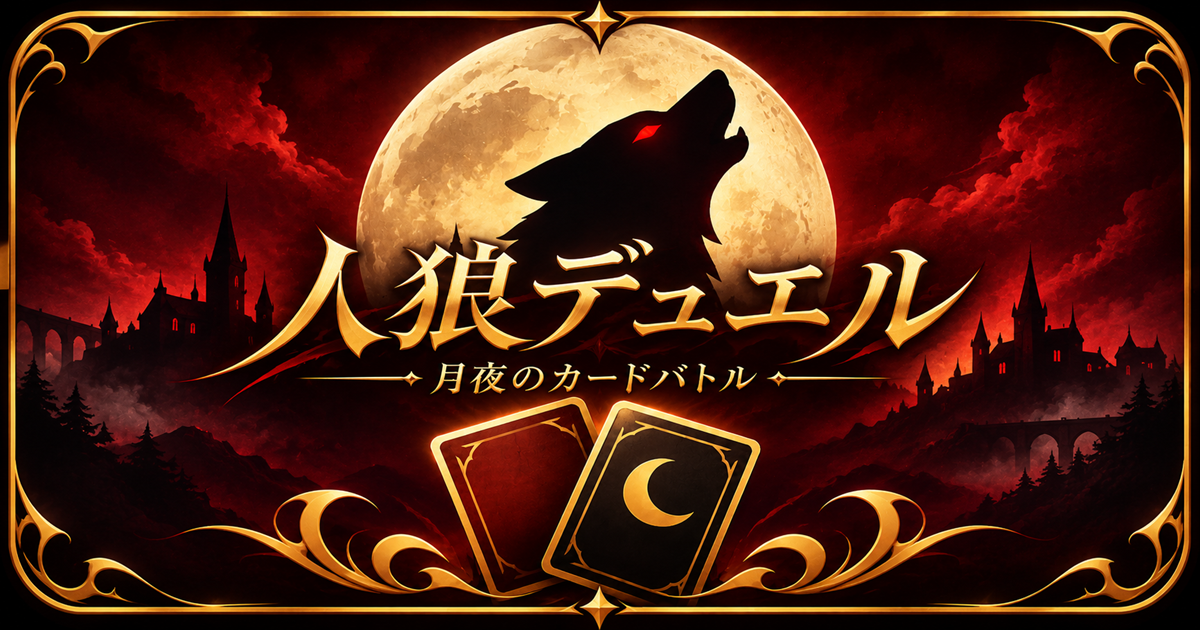
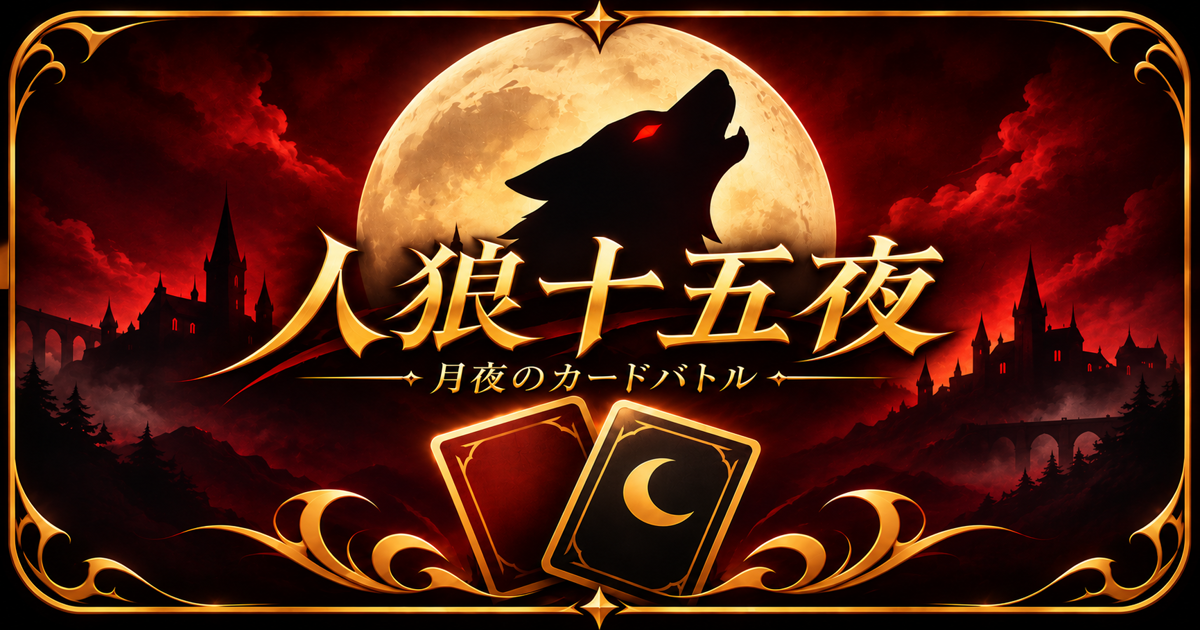
Rename web game to Jinro Jugoya and update sharing artwork

diff --git a/index.html b/index.html
@@ -5,26 +5,26 @@
   <meta name="viewport" content="width=device-width,initial-scale=1">
   <meta name="theme-color" content="#100f16">
   <meta name="description" content="20種類の役職でデッキを構築し、相手の行動を読み合う1対1のカードバトル。NPC対戦・オンライン対戦に対応！">
-  <title>人狼デュエル ― 十五夜の心理戦 ―</title>
+  <title>人狼十五夜</title>
   <!-- When the public domain changes, update canonical, og:url, og:image and twitter:image together. -->
   <link rel="canonical" href="https://jinrocard.vercel.app/">
   <meta property="og:type" content="website">
   <meta property="og:locale" content="ja_JP">
-  <meta property="og:site_name" content="人狼デュエル ― 十五夜の心理戦 ―">
+  <meta property="og:site_name" content="人狼十五夜">
   <meta property="og:url" content="https://jinrocard.vercel.app/">
-  <meta property="og:title" content="人狼デュエル ― 十五夜の心理戦 ―">
+  <meta property="og:title" content="人狼十五夜">
   <meta property="og:description" content="20種類の役職でデッキを構築し、相手の行動を読み合う1対1のカードバトル。NPC対戦・オンライン対戦に対応！">
-  <meta property="og:image" content="https://jinrocard.vercel.app/ogp.png">
+  <meta property="og:image" content="https://jinrocard.vercel.app/ogp.png?v=jugoya-1">
   <meta property="og:image:type" content="image/png">
   <meta property="og:image:width" content="1200">
   <meta property="og:image:height" content="630">
-  <meta property="og:image:alt" content="満月に吠える狼と2枚のカードを描いた「人狼デュエル」のタイトル画像">
+  <meta property="og:image:alt" content="満月に吠える狼と2枚のカードを描いた「人狼十五夜」のタイトル画像">
   <meta name="twitter:card" content="summary_large_image">
-  <meta name="twitter:title" content="人狼デュエル ― 十五夜の心理戦 ―">
+  <meta name="twitter:title" content="人狼十五夜">
   <meta name="twitter:description" content="20種類の役職でデッキを構築し、相手の行動を読み合う1対1のカードバトル。NPC対戦・オンライン対戦に対応！">
-  <meta name="twitter:image" content="https://jinrocard.vercel.app/ogp.png">
-  <meta name="twitter:image:alt" content="満月に吠える狼と2枚のカードを描いた「人狼デュエル」のタイトル画像">
-  <meta name="apple-mobile-web-app-title" content="人狼デュエル">
+  <meta name="twitter:image" content="https://jinrocard.vercel.app/ogp.png?v=jugoya-1">
+  <meta name="twitter:image:alt" content="満月に吠える狼と2枚のカードを描いた「人狼十五夜」のタイトル画像">
+  <meta name="apple-mobile-web-app-title" content="人狼十五夜">
   <link rel="icon" href="/favicon.ico?v=wolf-1" sizes="16x16 32x32 48x48">
   <link rel="icon" type="image/png" href="/favicon-16.png?v=wolf-1" sizes="16x16">
   <link rel="icon" type="image/png" href="/favicon-32.png?v=wolf-1" sizes="32x32">

diff --git a/src/main.tsx b/src/main.tsx
@@ -333,7 +333,7 @@ function App() {
   const missing = RULES.deckSize - deck.length
   const libraryPreview = saved.find(entry => entry.id === libraryId)
   return <OpenSoundSettings.Provider value={() => setSoundSettings(true)}>
-    <header className="top"><div className="wrap top-inner"><span className="brand"><span className="brand-main"><span className="sigil">◈</span> 人狼デュエル</span>{' '}<span className="brand-subtitle">― 十五夜の心理戦 ―</span></span>
+    <header className="top"><div className="wrap top-inner"><span className="brand"><span className="brand-main"><span className="sigil">◈</span> 人狼十五夜</span></span>
       <div className="top-actions">
         {page === 'builder' && <button className="quiet" onClick={home}>ホームへ戻る</button>}
         <SoundSettingsButton />
@@ -350,8 +350,7 @@ function App() {
             <div className="moon" aria-hidden="true"/>
             <div className="hero-copy">
               <div className="eyebrow">✦　月夜の決闘</div>
-              <h1>人狼デュエル</h1>
-              <p className="hero-subtitle">― 十五夜の心理戦 ―</p>
+              <h1>人狼十五夜</h1>
               <p className="hero-credit" lang="en">{creatorCredit}</p>
               <p><strong>相手のHPを0にすれば勝利。</strong><br/>役職を選び、相手の手を読む。<br/>十五夜のうちに、決着をつけろ。</p>
               <div className="home-actions">
@@ -394,7 +393,7 @@ function App() {
                 <div><CardTile role="seer" onInspect={() => inspect('seer')} /><p>相手の手札を調べる。</p></div>
               </div>
               <h3>ゲーム情報</h3>
-              <p>ゲーム名：人狼デュエル ― 十五夜の心理戦 ―<br />制作者：{creatorName}<br /><span lang="en">{creatorCredit}</span></p>
+              <p>ゲーム名：人狼十五夜<br />制作者：{creatorName}<br /><span lang="en">{creatorCredit}</span></p>
             </section>
           )}
           <section className="home-catalog" aria-labelledby="home-catalog-title">
@@ -657,7 +656,7 @@ function App() {
       {preview && <CardDetail {...preview} onClose={() => setPreview(null)} />}
       {soundSettings && <SoundSettings onClose={() => setSoundSettings(false)}
         showStatistics={statisticsEnabled && page === 'home' && !duel && !online} />}
-    </main><footer className="wrap footer">◈　人狼デュエル <span>WEREWOLF DUEL</span></footer>
+    </main><footer className="wrap footer">◈　人狼十五夜 <span>JINRO JUGOYA</span></footer>
   </OpenSoundSettings.Provider>
 }
 initAudio()

diff --git a/src/OnlineMatch.tsx b/src/OnlineMatch.tsx
@@ -95,7 +95,7 @@ function RoomInvitation({ code }: { code: string }) {
       <button className="quiet" disabled={!isRoomCode(code)} onClick={() => void copy('code', codeField.current)}>コードをコピー</button>
       <button className="quiet" disabled={!invite} onClick={() => void copy('url', urlField.current)}>招待URLをコピー</button>
       {navigator.share && <button className="quiet" disabled={!invite}
-        onClick={() => void navigator.share({ title: '人狼デュエル', url: invite }).catch(() => {})}>共有</button>}
+        onClick={() => void navigator.share({ title: '人狼十五夜', url: invite }).catch(() => {})}>共有</button>}
     </div>
     {feedback && <p className="notice" role={feedback.success ? 'status' : 'alert'}>{feedback.text}</p>}
   </div>

diff --git a/src/style.css b/src/style.css
@@ -121,10 +121,6 @@
   white-space: normal;
 }
 .brand-main { white-space: nowrap; }
-.brand-subtitle {
-  color: var(--gold);
-  font-size: .75em;
-}
 .top-actions, .sheet-header-actions {
   display: flex;
   align-items: center;
@@ -859,15 +855,6 @@ html:has(.match-contents[open]) {
 }
 :where([role="tabpanel"], .sheet-body):focus-visible {
   outline-offset: -2px;
-}
-
-.hero .hero-subtitle {
-  margin: -5px 0 10px;
-  color: var(--gold);
-  font-family: "Yu Mincho", "Hiragino Mincho ProN", serif;
-  font-size: clamp(16px, 2vw, 22px);
-  line-height: 1.5;
-  letter-spacing: .12em;
 }
 
 .online-actions {

diff --git a/docs/jinro-jugoya-introduction.md b/docs/jinro-jugoya-introduction.md
@@ -1,0 +1,34 @@
+# 外部掲載サイト用の紹介文
+
+## ゲーム名
+
+人狼十五夜
+
+## 短い紹介文
+
+20種類の役職でデッキを組み、相手の行動を読み合う1対1の心理戦カードゲーム。NPC対戦・オンライン対戦に対応し、スマホ・PCのブラウザで無料で遊べます。
+
+## 詳細な紹介文
+
+『人狼十五夜』は、20種類の役職カードで20枚のデッキを構築し、相手の行動を読み合う1対1の心理戦カードゲームです。
+
+毎夜1〜2枚のカードを選び、相手と同時に公開。人狼の襲撃を狩人で防ぐなど、カードの組み合わせと読み合いが勝負を左右します。相手のHPを0にすれば勝利。第15夜まで決着しなければ、残りHPの多い方が勝ちます。
+
+4段階の難易度を選べるNPC対戦、友人と遊べるオンライン対戦、デッキ構築、チュートリアルを用意しています。スマートフォン・PCのブラウザから、無料・ダウンロード不要でプレイできます。
+
+十五夜のうちに、決着をつけろ。
+
+制作者はTAKENOKOです。
+
+## 掲載情報
+
+- 公式URL https://jinroduel.com/
+- 予備URL https://jinrocard.vercel.app/
+- 制作者 Created by TAKENOKO
+- 旧名称 人狼デュエル
+
+既存の掲載URLとゲームURLは継続利用できます。掲載サイトのタイトル・紹介文は管理者が手動で更新してください。
+
+## OGP画像
+
+既存OGPを参照してimagegenの画像編集で制作。編集指示は、主タイトルを「人狼十五夜」に変更し、狼・満月・城・2枚のカード・金色の枠と赤黒金の配色、下段の「月夜のカードバトル」を維持する内容です。1200×630pxへ縦横比を維持して書き出しました。ゲーム内のカード素材は元のファイルを使用します。

diff --git a/README.md b/README.md
@@ -1,4 +1,4 @@
-# 人狼デュエル
+# 人狼十五夜
 
 20種類の役職から20枚のデッキを組み、NPCや友達と戦う1対1のカードゲームです。
 
